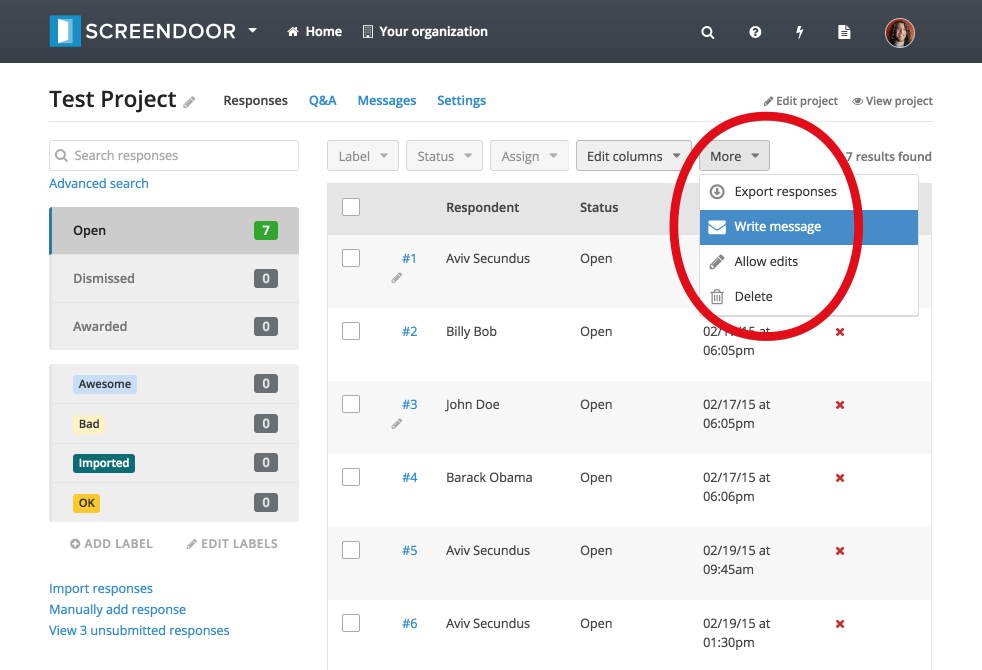
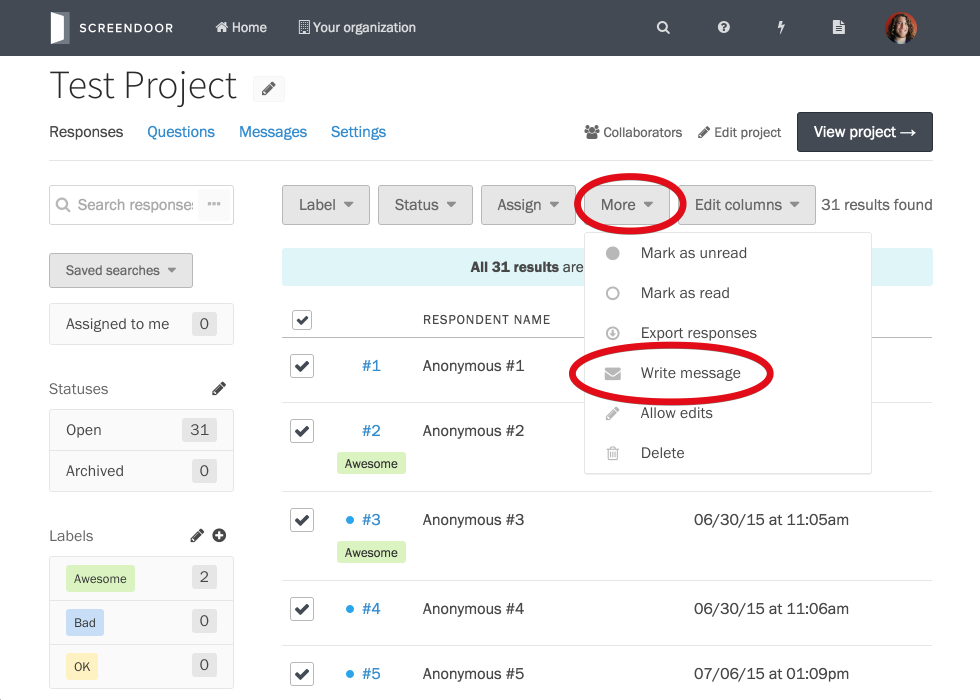
update "sending messages" article closes #214

diff --git a/contents/articles/screendoor/messages/sending_messages.md b/contents/articles/screendoor/messages/sending_messages.md
@@ -5,17 +5,22 @@ app_pages:
   - projectadmin-messages-edit
   - projectadmin-messages-preview
   - projectadmin-messages-index
+  - projectadmin-responses-index
 ---
 
 ## Sending messages to all your respondents
 
-If you'd like to send a message to all your respondents, just click "Write message" from the "More" dropdown above the "Responses" table.
+If you'd like to send a message to all your respondents, first check the topmost checkbox in the "Responses" table.
+
+![select all responses 1](../images/select_all_responses1.png)
+
+If you have more than one full page of responses, click the "Select all results" link to select all of your responses.
+
+![select all responses 2](../images/select_all_responses2.png)
+
+Select "Write message" from the "More" dropdown.
 
 ![write message](../images/write_message.png)
-
-Make sure the "All" checkbox is selected, and then click the "Craft your message" button.
-
-![write message popup](../images/write_message_modal.png)
 
 Enter a reply-to email, a subject, and write your message!
 
@@ -25,9 +30,7 @@ Then, click "Preview" to make sure everything looks good. Click "Send messages" 
 
 ## Sending messages to specific respondents
 
-If you'd prefer to send a message only to specific respondents, just check the box next to those respondents from the "Responses" table and select the "Checked" checkbox from the "Send a messge" popup.
-
-Alternatively, you can apply some [filters](../responses/sorting_and_filtering_responses.html) before clicking "Write message." Then, select the "Current search results" checkbox from the "Send a message" popup.
+If you'd prefer to send a message only to specific respondents, just check the box next to those respondents from the "Responses" table and select "Write message" from the "More" dropdown.
 
 ## Reviewing sent messages
 
